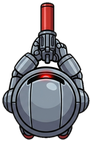
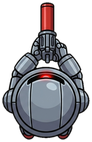
Sprites: remove white enclosed between arms and weapon
make_comic_sprites.py also clears enclosed white areas of 200+ source
pixels in the top views (side views keep them: eyes). Regenerated the
four rowdies and the enemy bot.

Changed region(s): [[0.3913, 0.3944, 0.6522, 0.507]]

diff --git a/tools/make_comic_sprites.py b/tools/make_comic_sprites.py
@@ -4,8 +4,9 @@
 Usage: python3 tools/make_comic_sprites.py ~/Downloads/yard-wars-art [name ...]
        python3 tools/make_comic_sprites.py --side ~/Downloads/yard-wars-art-new/side [name ...]
 
-For each <name>.png in NAMES (or only the names given): remove the white background (flood fill from the image
-border, so white inside the outline stays), shrink the mask a little to drop the JPEG
+For each <name>.png in NAMES (or only the names given): remove the white background
+(flood fill from the image border, plus enclosed white areas of at least HOLE_MIN px, e.g.
+between arms and weapon; smaller white spots inside the outline stay), shrink the mask a little to drop the JPEG
 fringe, trim, scale to a fixed width and save to assets/images/comic/<name>.png.
 Prints the body origin and muzzle (in output pixels) to put into src/rowdies.lua.
 
@@ -14,7 +15,7 @@ drawn at: a slim sniper isn't blown up to the width of the others; 0.27 for
 ~/Downloads/yard-wars-art-new/top makes the gunner 88px wide).
 
 --side: side views (standing, facing right) for the lobby: same cut-out, scaled to
-SIDE_HEIGHT px tall, reduced to 256 colours (1/6 of the size, looks the same for comic
+SIDE_HEIGHT px tall (enclosed white stays: eyes), reduced to 256 colours (1/6 of the size, looks the same for comic
 art; keeps the game download small), saved to assets/images/side/<name>.png.
 """
 import collections
@@ -27,14 +28,30 @@ NAMES = ["gunner", "shotgunner", "sniper", "bot", "robot"]
 WIDTH = 88        # output width in px (drawn at Assets.comicScale = 0.5 -> 44 world px)
 WHITE = 225       # background = all channels at least this bright
 PAD = 2           # transparent border around the trimmed sprite
+HOLE_MIN = 200    # enclosed white areas this big (source px) are background too
 SIDE_NAMES = ["gunner", "shotgunner", "sniper", "robot"]
 SIDE_HEIGHT = 400  # lobby: drawn up to ~300 HUD px tall, x2 for high-DPI screens
 OUT_DIR = os.path.join(os.path.dirname(__file__), "..", "assets", "images", "comic")
 SIDE_DIR = os.path.join(os.path.dirname(__file__), "..", "assets", "images", "side")
 
 
-def background_mask(im):
-    """255 = character, 0 = background reachable from the border."""
+def white_area(px, w, h, start, seen):
+    """Pixels of the white area around start (4-connected), marking them in seen."""
+    area, queue = [], collections.deque([start])
+    seen.add(start)
+    while queue:
+        x, y = queue.popleft()
+        area.append((x, y))
+        for n in ((x + 1, y), (x - 1, y), (x, y + 1), (x, y - 1)):
+            if 0 <= n[0] < w and 0 <= n[1] < h and n not in seen and min(px[n]) >= WHITE:
+                seen.add(n)
+                queue.append(n)
+    return area
+
+
+def background_mask(im, holes=True):
+    """255 = character, 0 = background: white reachable from the border, and enclosed
+    white areas of at least HOLE_MIN px (gaps between arms and weapon)."""
     w, h = im.size
     px = im.load()
     mask = Image.new("L", (w, h), 255)
@@ -52,20 +69,27 @@ def background_mask(im):
             if 0 <= n[0] < w and 0 <= n[1] < h and n not in seen:
                 seen.add(n)
                 queue.append(n)
+    for y in range(h if holes else 0):
+        for x in range(w):
+            if (x, y) not in seen and min(px[x, y]) >= WHITE:
+                area = white_area(px, w, h, (x, y), seen)
+                if len(area) >= HOLE_MIN:
+                    for p in area:
+                        m[p] = 0
     # Erode by ~2px (outlines are ~12px thick) and soften the edge
     return mask.filter(ImageFilter.MinFilter(5)).filter(ImageFilter.GaussianBlur(1))
 
 
-def cut_out(src_dir, name):
+def cut_out(src_dir, name, holes=True):
     im = Image.open(os.path.join(src_dir, name + ".png")).convert("RGB")
     rgba = im.convert("RGBA")
-    rgba.putalpha(background_mask(im))
+    rgba.putalpha(background_mask(im, holes))
     bbox = rgba.getchannel("A").point(lambda a: 255 if a > 8 else 0).getbbox()
     return rgba.crop(bbox), bbox
 
 
 def process_side(src_dir, name):
-    rgba, bbox = cut_out(src_dir, name)
+    rgba, bbox = cut_out(src_dir, name, holes=False) # eyes are enclosed white areas
     k = SIDE_HEIGHT / rgba.height
     rgba = rgba.resize((round(rgba.width * k), SIDE_HEIGHT), Image.LANCZOS)
     out = Image.new("RGBA", (rgba.width + 2 * PAD, rgba.height + 2 * PAD))
